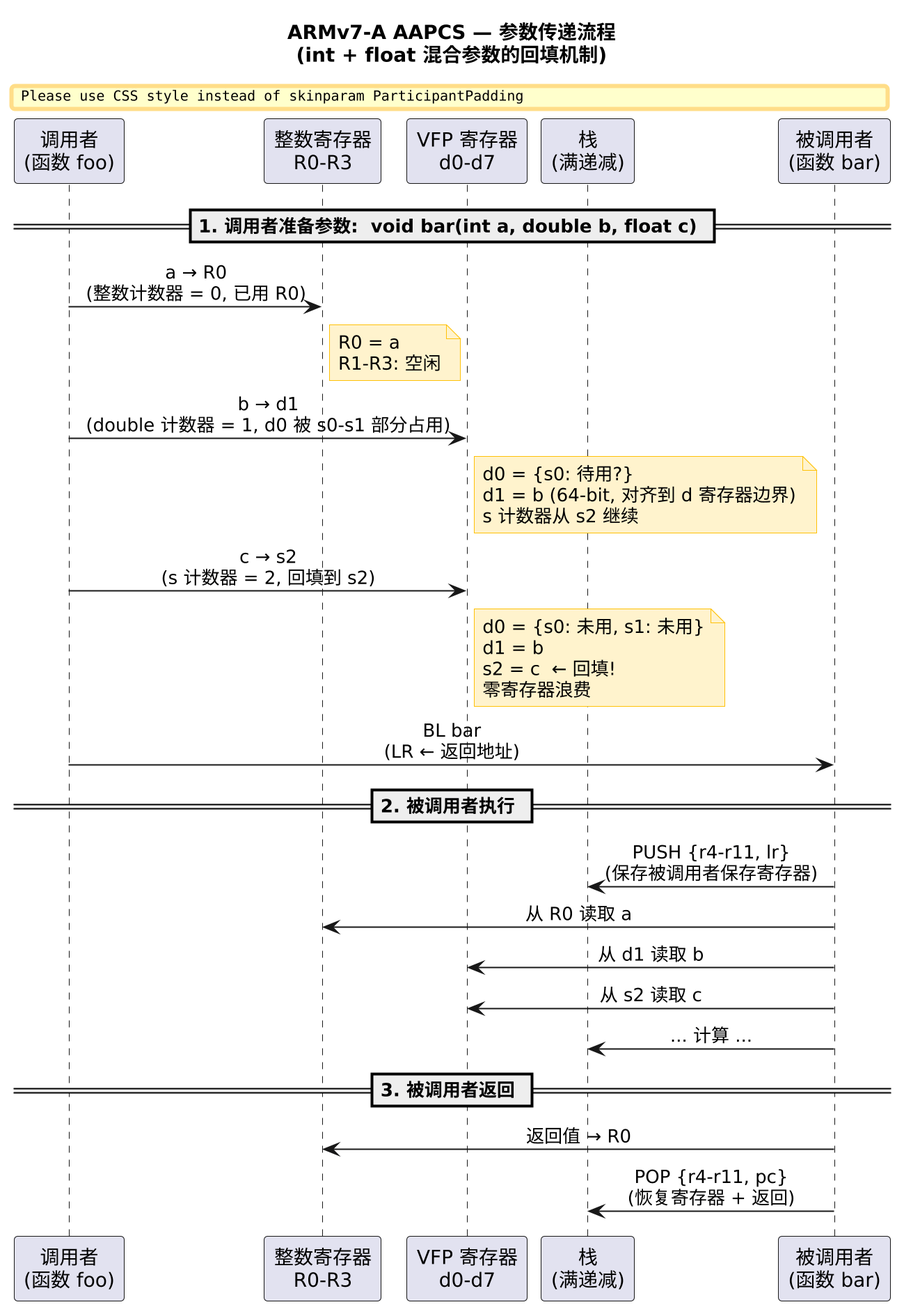
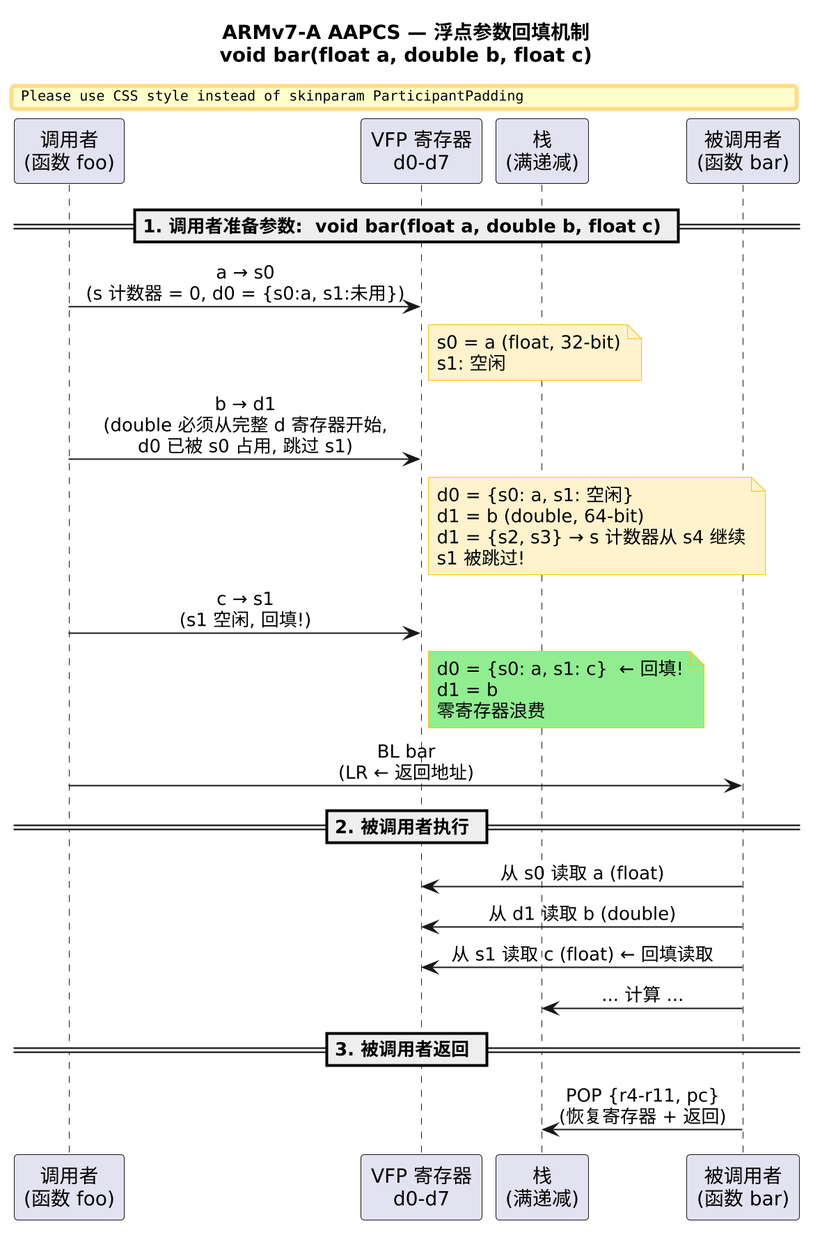
Site updated: 2026-07-25 17:15:24

Changed region(s): [[0.0, 0.0, 0.9863, 0.9921], [0.1849, 0.403, 0.4315, 0.5271], [0.0, 0.9301, 0.1541, 0.9921]]

diff --git a/2026/07/25/ARM-AACPS/index.html b/2026/07/25/ARM-AACPS/index.html
@@ -30,7 +30,7 @@
 <meta property="og:image" content="http://yoursite.com/2026/07/25/ARM-AACPS/2.png">
 <meta property="og:image" content="http://yoursite.com/2026/07/25/ARM-AACPS/1.png">
 <meta property="article:published_time" content="2026-07-25T02:19:33.000Z">
-<meta property="article:modified_time" content="2026-07-25T02:26:01.828Z">
+<meta property="article:modified_time" content="2026-07-25T09:14:53.580Z">
 <meta property="article:author" content="Vonku">
 <meta property="article:tag" content="ARM">
 <meta property="article:tag" content="ARMv7-a">
@@ -136,7 +136,7 @@
       <div class="sidebar-panel-container">
         <!--noindex-->
         <div class="post-toc-wrap sidebar-panel">
-            <div class="post-toc animated"><ol class="nav"><li class="nav-item nav-level-2"><a class="nav-link" href="#1-ABI-%E4%B8%8E-AAPCS%EF%BC%9A%E8%B7%A8%E6%A8%A1%E5%9D%97%E4%BA%92%E6%93%8D%E4%BD%9C%E7%9A%84%E5%9F%BA%E7%A1%80"><span class="nav-text">1. ABI 与 AAPCS：跨模块互操作的基础</span></a></li><li class="nav-item nav-level-2"><a class="nav-link" href="#2-%E6%95%B4%E6%95%B0%E5%AF%84%E5%AD%98%E5%99%A8%E8%A7%92%E8%89%B2%E4%B8%8E%E5%88%86%E7%BB%84"><span class="nav-text">2. 整数寄存器角色与分组</span></a><ol class="nav-child"><li class="nav-item nav-level-3"><a class="nav-link" href="#2-1-%E5%AF%84%E5%AD%98%E5%99%A8%E8%81%8C%E8%B4%A3%E8%A1%A8"><span class="nav-text">2.1 寄存器职责表</span></a></li><li class="nav-item nav-level-3"><a class="nav-link" href="#2-2-R12-IP-%E7%9A%84%E6%B7%B1%E5%B1%82%E5%90%AB%E4%B9%89%EF%BC%9A%E4%B8%BA%E4%BB%80%E4%B9%88%E9%93%BE%E6%8E%A5%E5%99%A8%E9%9C%80%E8%A6%81%E4%B8%80%E4%B8%AA%E6%9A%82%E5%AD%98%E5%AF%84%E5%AD%98%E5%99%A8%EF%BC%9F"><span class="nav-text">2.2 R12 (IP) 的深层含义：为什么链接器需要一个暂存寄存器？</span></a></li><li class="nav-item nav-level-3"><a class="nav-link" href="#2-3-R9-%E7%9A%84%E7%89%B9%E6%AE%8A%E5%9C%B0%E4%BD%8D"><span class="nav-text">2.3 R9 的特殊地位</span></a></li></ol></li><li class="nav-item nav-level-2"><a class="nav-link" href="#3-%E5%87%BD%E6%95%B0%E8%B0%83%E7%94%A8%E7%9A%84%E5%8F%82%E6%95%B0%E4%BC%A0%E9%80%92"><span class="nav-text">3. 函数调用的参数传递</span></a><ol class="nav-child"><li class="nav-item nav-level-3"><a class="nav-link" href="#3-1-%E5%9F%BA%E6%9C%AC%E8%A7%84%E5%88%99"><span class="nav-text">3.1 基本规则</span></a></li><li class="nav-item nav-level-3"><a class="nav-link" href="#3-2-C-%E7%9A%84-this-%E6%8C%87%E9%92%88%E6%83%A9%E7%BD%9A"><span class="nav-text">3.2 C++ 的 this 指针惩罚</span></a></li><li class="nav-item nav-level-3"><a class="nav-link" href="#3-3-64-%E4%BD%8D%E5%8F%82%E6%95%B0%E7%9A%84%E5%AF%B9%E9%BD%90%E7%BA%A6%E6%9D%9F"><span class="nav-text">3.3 64 位参数的对齐约束</span></a><ol class="nav-child"><li class="nav-item nav-level-4"><a class="nav-link" href="#%E5%AE%9E%E4%BE%8B%EF%BC%9A%E5%8F%82%E6%95%B0%E9%A1%BA%E5%BA%8F%E9%94%99%E8%AF%AF%E7%9A%84%E4%BB%A3%E4%BB%B7"><span class="nav-text">实例：参数顺序错误的代价</span></a></li></ol></li><li class="nav-item nav-level-3"><a class="nav-link" href="#3-4-%E8%B0%83%E7%94%A8%E8%80%85%E4%B8%8E%E8%A2%AB%E8%B0%83%E7%94%A8%E8%80%85%E7%9A%84%E4%BB%A3%E7%A0%81%E6%A8%A1%E6%9D%BF"><span class="nav-text">3.4 调用者与被调用者的代码模板</span></a></li></ol></li><li class="nav-item nav-level-2"><a class="nav-link" href="#4-VFP-%E4%B8%8E-NEON-%E5%AF%84%E5%AD%98%E5%99%A8%E7%BA%A6%E5%AE%9A"><span class="nav-text">4. VFP 与 NEON 寄存器约定</span></a><ol class="nav-child"><li class="nav-item nav-level-3"><a class="nav-link" href="#4-1-VFPv3-%E5%AF%84%E5%AD%98%E5%99%A8%E5%B8%83%E5%B1%80"><span class="nav-text">4.1 VFPv3 寄存器布局</span></a></li><li class="nav-item nav-level-3"><a class="nav-link" href="#4-2-%E8%BD%AF%E4%BB%B6%E6%B5%AE%E7%82%B9%E9%93%BE%E8%B7%AF-vs-%E7%A1%AC%E4%BB%B6%E6%B5%AE%E7%82%B9%E9%93%BE%E8%B7%AF"><span class="nav-text">4.2 软件浮点链路 vs 硬件浮点链路</span></a></li><li class="nav-item nav-level-3"><a class="nav-link" href="#4-3-%E6%B5%AE%E7%82%B9%E5%AF%84%E5%AD%98%E5%99%A8%E7%9A%84-back-fill-%E6%9C%BA%E5%88%B6"><span class="nav-text">4.3 浮点寄存器的 back-fill 机制</span></a></li><li class="nav-item nav-level-3"><a class="nav-link" href="#4-4-%E6%A0%88%E6%BA%A2%E5%87%BA%E7%9A%84%E4%B8%8D%E5%8F%AF%E9%80%86%E7%BA%A6%E6%9D%9F"><span class="nav-text">4.4 栈溢出的不可逆约束</span></a></li><li class="nav-item nav-level-3"><a class="nav-link" href="#4-5-%E5%8F%98%E5%8F%82%E5%87%BD%E6%95%B0%E7%9A%84%E7%89%B9%E6%AE%8A%E5%A4%84%E7%90%86"><span class="nav-text">4.5 变参函数的特殊处理</span></a></li></ol></li><li class="nav-item nav-level-2"><a class="nav-link" href="#5-%E6%A0%88%E3%80%81%E5%A0%86%E4%B8%8E%E8%BF%94%E5%9B%9E%E5%80%BC"><span class="nav-text">5. 栈、堆与返回值</span></a><ol class="nav-child"><li class="nav-item nav-level-3"><a class="nav-link" href="#5-1-%E6%A0%88%E5%AE%9E%E7%8E%B0"><span class="nav-text">5.1 栈实现</span></a></li><li class="nav-item nav-level-3"><a class="nav-link" href="#5-2-%E8%BF%94%E5%9B%9E%E5%80%BC%E7%BA%A6%E5%AE%9A"><span class="nav-text">5.2 返回值约定</span></a></li></ol></li><li class="nav-item nav-level-2"><a class="nav-link" href="#6-C-%E4%B8%8E%E6%B1%87%E7%BC%96%E6%B7%B7%E7%BC%96%E5%AE%9E%E8%B7%B5"><span class="nav-text">6. C 与汇编混编实践</span></a><ol class="nav-child"><li class="nav-item nav-level-3"><a class="nav-link" href="#6-1-GCC-%E5%9F%BA%E6%9C%AC%E5%86%85%E8%81%94%E6%B1%87%E7%BC%96"><span class="nav-text">6.1 GCC 基本内联汇编</span></a></li><li class="nav-item nav-level-3"><a class="nav-link" href="#6-2-%E6%89%A9%E5%B1%95%E5%86%85%E8%81%94%E6%B1%87%E7%BC%96%E8%AF%AD%E6%B3%95"><span class="nav-text">6.2 扩展内联汇编语法</span></a></li><li class="nav-item nav-level-3"><a class="nav-link" href="#6-3-%E7%BA%A6%E6%9D%9F%E5%AD%97%E7%AC%A6"><span class="nav-text">6.3 约束字符</span></a></li><li class="nav-item nav-level-3"><a class="nav-link" href="#6-4-Clobber-%E5%88%97%E8%A1%A8"><span class="nav-text">6.4 Clobber 列表</span></a></li><li class="nav-item nav-level-3"><a class="nav-link" href="#6-5-%E6%9D%A5%E8%87%AA-Linux-%E5%86%85%E6%A0%B8%E7%9A%84%E5%AE%9E%E4%BE%8B"><span class="nav-text">6.5 来自 Linux 内核的实例</span></a></li></ol></li><li class="nav-item nav-level-2"><a class="nav-link" href="#7-%E5%85%B3%E9%94%AE%E8%A6%81%E7%82%B9"><span class="nav-text">7. 关键要点</span></a></li></ol></div>
+            <div class="post-toc animated"><ol class="nav"><li class="nav-item nav-level-2"><a class="nav-link" href="#1-ABI-%E4%B8%8E-AAPCS%EF%BC%9A%E8%B7%A8%E6%A8%A1%E5%9D%97%E4%BA%92%E6%93%8D%E4%BD%9C%E7%9A%84%E5%9F%BA%E7%A1%80"><span class="nav-text">1. ABI 与 AAPCS：跨模块互操作的基础</span></a></li><li class="nav-item nav-level-2"><a class="nav-link" href="#2-%E6%95%B4%E6%95%B0%E5%AF%84%E5%AD%98%E5%99%A8%E8%A7%92%E8%89%B2%E4%B8%8E%E5%88%86%E7%BB%84"><span class="nav-text">2. 整数寄存器角色与分组</span></a><ol class="nav-child"><li class="nav-item nav-level-3"><a class="nav-link" href="#2-1-%E5%AF%84%E5%AD%98%E5%99%A8%E8%81%8C%E8%B4%A3%E8%A1%A8"><span class="nav-text">2.1 寄存器职责表</span></a></li><li class="nav-item nav-level-3"><a class="nav-link" href="#2-2-R12-IP-%E7%9A%84%E6%B7%B1%E5%B1%82%E5%90%AB%E4%B9%89%EF%BC%9A%E4%B8%BA%E4%BB%80%E4%B9%88%E9%93%BE%E6%8E%A5%E5%99%A8%E9%9C%80%E8%A6%81%E4%B8%80%E4%B8%AA%E6%9A%82%E5%AD%98%E5%AF%84%E5%AD%98%E5%99%A8%EF%BC%9F"><span class="nav-text">2.2 R12 (IP) 的深层含义：为什么链接器需要一个暂存寄存器？</span></a></li><li class="nav-item nav-level-3"><a class="nav-link" href="#2-3-R9-%E7%9A%84%E7%89%B9%E6%AE%8A%E5%9C%B0%E4%BD%8D"><span class="nav-text">2.3 R9 的特殊地位</span></a></li></ol></li><li class="nav-item nav-level-2"><a class="nav-link" href="#3-%E5%87%BD%E6%95%B0%E8%B0%83%E7%94%A8%E7%9A%84%E5%8F%82%E6%95%B0%E4%BC%A0%E9%80%92"><span class="nav-text">3. 函数调用的参数传递</span></a><ol class="nav-child"><li class="nav-item nav-level-3"><a class="nav-link" href="#3-1-%E5%9F%BA%E6%9C%AC%E8%A7%84%E5%88%99"><span class="nav-text">3.1 基本规则</span></a></li><li class="nav-item nav-level-3"><a class="nav-link" href="#3-2-C-%E7%9A%84-this-%E6%8C%87%E9%92%88%E6%83%A9%E7%BD%9A"><span class="nav-text">3.2 C++ 的 this 指针惩罚</span></a></li><li class="nav-item nav-level-3"><a class="nav-link" href="#3-3-64-%E4%BD%8D%E5%8F%82%E6%95%B0%E7%9A%84%E5%AF%84%E5%AD%98%E5%99%A8%E5%AF%B9%E9%BD%90%E8%A7%84%E5%88%99"><span class="nav-text">3.3 64 位参数的寄存器对齐规则</span></a><ol class="nav-child"><li class="nav-item nav-level-4"><a class="nav-link" href="#%E5%AE%9E%E4%BE%8B%EF%BC%9A%E5%8F%82%E6%95%B0%E9%A1%BA%E5%BA%8F%E9%94%99%E8%AF%AF%E7%9A%84%E4%BB%A3%E4%BB%B7"><span class="nav-text">实例：参数顺序错误的代价</span></a></li></ol></li><li class="nav-item nav-level-3"><a class="nav-link" href="#3-4-%E8%B0%83%E7%94%A8%E8%80%85%E4%B8%8E%E8%A2%AB%E8%B0%83%E7%94%A8%E8%80%85%E7%9A%84%E4%BB%A3%E7%A0%81%E6%A8%A1%E6%9D%BF"><span class="nav-text">3.4 调用者与被调用者的代码模板</span></a></li></ol></li><li class="nav-item nav-level-2"><a class="nav-link" href="#4-VFP-%E4%B8%8E-NEON-%E5%AF%84%E5%AD%98%E5%99%A8%E7%BA%A6%E5%AE%9A"><span class="nav-text">4. VFP 与 NEON 寄存器约定</span></a><ol class="nav-child"><li class="nav-item nav-level-3"><a class="nav-link" href="#4-1-VFPv3-%E5%AF%84%E5%AD%98%E5%99%A8%E5%B8%83%E5%B1%80"><span class="nav-text">4.1 VFPv3 寄存器布局</span></a></li><li class="nav-item nav-level-3"><a class="nav-link" href="#4-2-%E8%BD%AF%E4%BB%B6%E6%B5%AE%E7%82%B9%E9%93%BE%E8%B7%AF-vs-%E7%A1%AC%E4%BB%B6%E6%B5%AE%E7%82%B9%E9%93%BE%E8%B7%AF"><span class="nav-text">4.2 软件浮点链路 vs 硬件浮点链路</span></a></li><li class="nav-item nav-level-3"><a class="nav-link" href="#4-3-%E6%B5%AE%E7%82%B9%E5%AF%84%E5%AD%98%E5%99%A8%E7%9A%84-back-fill-%E6%9C%BA%E5%88%B6"><span class="nav-text">4.3 浮点寄存器的 back-fill 机制</span></a></li><li class="nav-item nav-level-3"><a class="nav-link" href="#4-4-%E6%A0%88%E6%BA%A2%E5%87%BA%E7%9A%84%E4%B8%8D%E5%8F%AF%E9%80%86%E7%BA%A6%E6%9D%9F"><span class="nav-text">4.4 栈溢出的不可逆约束</span></a></li><li class="nav-item nav-level-3"><a class="nav-link" href="#4-5-%E5%8F%98%E5%8F%82%E5%87%BD%E6%95%B0%E7%9A%84%E7%89%B9%E6%AE%8A%E5%A4%84%E7%90%86"><span class="nav-text">4.5 变参函数的特殊处理</span></a></li></ol></li><li class="nav-item nav-level-2"><a class="nav-link" href="#5-%E6%A0%88%E3%80%81%E5%A0%86%E4%B8%8E%E8%BF%94%E5%9B%9E%E5%80%BC"><span class="nav-text">5. 栈、堆与返回值</span></a><ol class="nav-child"><li class="nav-item nav-level-3"><a class="nav-link" href="#5-1-%E6%A0%88%E5%AE%9E%E7%8E%B0"><span class="nav-text">5.1 栈实现</span></a></li><li class="nav-item nav-level-3"><a class="nav-link" href="#5-2-%E8%BF%94%E5%9B%9E%E5%80%BC%E7%BA%A6%E5%AE%9A"><span class="nav-text">5.2 返回值约定</span></a></li></ol></li><li class="nav-item nav-level-2"><a class="nav-link" href="#6-C-%E4%B8%8E%E6%B1%87%E7%BC%96%E6%B7%B7%E7%BC%96%E5%AE%9E%E8%B7%B5"><span class="nav-text">6. C 与汇编混编实践</span></a><ol class="nav-child"><li class="nav-item nav-level-3"><a class="nav-link" href="#6-1-GCC-%E5%9F%BA%E6%9C%AC%E5%86%85%E8%81%94%E6%B1%87%E7%BC%96"><span class="nav-text">6.1 GCC 基本内联汇编</span></a></li><li class="nav-item nav-level-3"><a class="nav-link" href="#6-2-%E6%89%A9%E5%B1%95%E5%86%85%E8%81%94%E6%B1%87%E7%BC%96%E8%AF%AD%E6%B3%95"><span class="nav-text">6.2 扩展内联汇编语法</span></a></li><li class="nav-item nav-level-3"><a class="nav-link" href="#6-3-%E7%BA%A6%E6%9D%9F%E5%AD%97%E7%AC%A6"><span class="nav-text">6.3 约束字符</span></a></li><li class="nav-item nav-level-3"><a class="nav-link" href="#6-4-Clobber-%E5%88%97%E8%A1%A8"><span class="nav-text">6.4 Clobber 列表</span></a></li><li class="nav-item nav-level-3"><a class="nav-link" href="#6-5-%E6%9D%A5%E8%87%AA-Linux-%E5%86%85%E6%A0%B8%E7%9A%84%E5%AE%9E%E4%BE%8B"><span class="nav-text">6.5 来自 Linux 内核的实例</span></a></li></ol></li><li class="nav-item nav-level-2"><a class="nav-link" href="#7-%E5%85%B3%E9%94%AE%E8%A6%81%E7%82%B9"><span class="nav-text">7. 关键要点</span></a></li></ol></div>
         </div>
         <!--/noindex-->
 
@@ -293,20 +293,21 @@
 <tbody><tr>
 <td>Static Base</td>
 <td>SB</td>
-<td>指向位置无关数据段（如 PIC&#x2F;PID 代码中的 GOT）</td>
+<td>指向全局数据区基址，便于高效访问全局&#x2F;静态变量（部分平台使用）</td>
 </tr>
 <tr>
 <td>Thread Register</td>
 <td>TR</td>
-<td>指向线程局部存储 (TLS)</td>
+<td>指向当前线程的数据结构（TCB&#x2F;TLS），便于快速访问线程局部数据</td>
 </tr>
 <tr>
 <td>Variable v6</td>
 <td>v6</td>
-<td>无特殊需求时作为额外的被调用者保存寄存器</td>
+<td>无特殊用途时，作为普通的被调用者保存寄存器（callee-saved）</td>
 </tr>
 </tbody></table>
-<p>在不需要 SB 或 TR 的代码中，R9 等价于额外的 v6，遵守与被调用者保存寄存器相同的规则。</p>
+<p><strong>R9 是 AAPCS 中唯一由平台 ABI 决定具体用途的通用寄存器。</strong> 某些平台将其作为 <strong>SB（Static Base）</strong> 保存全局数据区基址，或作为 <strong>TR（Thread Register）</strong> 保存当前线程的线程控制块（TCB）或线程局部存储（TLS）指针；若平台没有这些需求，则 <strong>R9</strong> 作为普通的 <strong>v6</strong> 使用，遵守与其他被调用者保存寄存器（callee-saved）相同的规则。</p>
+<p>Linux ARM EABI 上基本把<code>r9</code>当做<code>v6</code>来使用，也就是普通的 callee-saved 寄存器。线程指针通常使用 CP15（后来又演进为专门的线程指针机制），而不是 <code>r9</code>。</p>
 <hr>
 <h2 id="3-函数调用的参数传递"><a href="#3-函数调用的参数传递" class="headerlink" title="3. 函数调用的参数传递"></a>3. 函数调用的参数传递</h2><h3 id="3-1-基本规则"><a href="#3-1-基本规则" class="headerlink" title="3.1 基本规则"></a>3.1 基本规则</h3><p>AAPCS 参数传递策略的核心思想是：<strong>优先使用寄存器，溢出才走栈</strong>。</p>
 <ul>
@@ -316,18 +317,18 @@
 <li>大于一个字（32-bit）的参数拆分到多个寄存器中</li>
 </ul>
 <p>这意味着一个 <code>void f(int a, char b, short c, int d)</code> 调用中，a→R0, b→R1, c→R2, d→R3——虽然 b 和 c 只有 8 位和 16 位，但仍各自占据一个完整的 32 位寄存器。</p>
-<h3 id="3-2-C-的-this-指针惩罚"><a href="#3-2-C-的-this-指针惩罚" class="headerlink" title="3.2 C++ 的 this 指针惩罚"></a>3.2 C++ 的 this 指针惩罚</h3><p>C++ 非静态成员函数隐含的 <code>this</code> 指针占用 R0，因此只剩 <strong>R1–R3 三个寄存器</strong>用于显式参数。当你定义一个 C++ 成员函数有 4 个参数时，第 4 个参数就已经溢出到栈上了。</p>
+<h3 id="3-2-C-的-this-指针惩罚"><a href="#3-2-C-的-this-指针惩罚" class="headerlink" title="3.2 C++ 的 this 指针惩罚"></a>3.2 C++ 的 this 指针惩罚</h3><p>C++ <strong>非静态成员函数</strong>会隐式传递一个 <code>this</code> 指针，并按照 AAPCS 放入 <strong>R0</strong>。因此，可用于传递<strong>显式参数</strong>的寄存器只剩 <strong>R1–R3</strong>。当成员函数有 <strong>4 个显式参数</strong>时，第 <strong>4</strong> 个参数（也是整个调用序列中的第 <strong>5</strong> 个参数）将按照 AAPCS 的规则通过栈传递。</p>
 <p>这意味着在性能敏感的 C++ 代码中，参数数量应该控制在 3 个以内——比 C 函数少一个。</p>
-<h3 id="3-3-64-位参数的对齐约束"><a href="#3-3-64-位参数的对齐约束" class="headerlink" title="3.3 64 位参数的对齐约束"></a>3.3 64 位参数的对齐约束</h3><p>这是 AAPCS 中最容易踩坑的规则。64 位类型的参数（如 <code>long long</code>、<code>double</code>）必须满足两个约束：</p>
+<h3 id="3-3-64-位参数的寄存器对齐规则"><a href="#3-3-64-位参数的寄存器对齐规则" class="headerlink" title="3.3 64 位参数的寄存器对齐规则"></a>3.3 64 位参数的寄存器对齐规则</h3><p>这是 AAPCS 中最容易踩坑的规则。64 位类型的参数（如 <code>long long</code>、<code>double</code>）必须满足两个约束：</p>
 <ol>
-<li>在内存中必须 8 字节对齐（与 ARM <code>LDRD</code>&#x2F;<code>STRD</code> 双字加载指令的限制一致）</li>
-<li>在寄存器传递时必须使用<strong>偶数+奇数</strong>寄存器对（如 R0+R1 或 R2+R3，不能是 R1+R2）</li>
+<li>在内存中按 <strong>8 字节边界对齐</strong>，这是 AAPCS 对 64 位数据类型的 ABI 要求，也便于编译器生成高效的双字访问指令。</li>
+<li>在寄存器中传递时，必须从<strong>偶数编号寄存器</strong>开始连续占用两个寄存器，即只能使用 <strong>R0+R1</strong> 或 <strong>R2+R3</strong>，不能使用 <strong>R1+R2</strong>。</li>
 </ol>
 <h4 id="实例：参数顺序错误的代价"><a href="#实例：参数顺序错误的代价" class="headerlink" title="实例：参数顺序错误的代价"></a>实例：参数顺序错误的代价</h4><p>以原文 Figure 16-1 为例。假设函数签名为：</p>
 <figure class="highlight c"><table><tr><td class="gutter"><pre><span class="line">1</span><br></pre></td><td class="code"><pre><span class="line"><span class="type">void</span> <span class="title function_">func1</span><span class="params">(<span class="type">int</span> a, <span class="type">double</span> b, <span class="type">int</span> c)</span>;</span><br></pre></td></tr></table></figure>
 
 <p>参数分配过程：</p>
-<figure class="highlight plaintext"><table><tr><td class="gutter"><pre><span class="line">1</span><br><span class="line">2</span><br><span class="line">3</span><br></pre></td><td class="code"><pre><span class="line">a (int, 32-bit)  → R0                       [4 bytes used]</span><br><span class="line">b (double, 64-bit)→ R2 + R3   [8 bytes, must start at even reg]</span><br><span class="line">c (int, 32-bit)  → overflow → stack [R1 wasted!]</span><br></pre></td></tr></table></figure>
+<figure class="highlight plaintext"><table><tr><td class="gutter"><pre><span class="line">1</span><br><span class="line">2</span><br><span class="line">3</span><br><span class="line">4</span><br></pre></td><td class="code"><pre><span class="line">a (int, 32-bit)    → R0  [4 bytes used]</span><br><span class="line">                     R1  ← 跳过（因为 double 必须从偶数寄存器开始）</span><br><span class="line">b (double, 64-bit) → R2 + R3   [8 bytes, must start at even reg]</span><br><span class="line">c (int, 32-bit)    → overflow → stack [R1 wasted!]</span><br></pre></td></tr></table></figure>
 
 <p>R1 因对齐约束被跳过，c 被迫溢出到栈。每次调用都需要额外的栈操作指令。</p>
 <p>如果将参数重新排序：</p>
@@ -347,7 +348,16 @@
 <p>被调用者侧：</p>
 <figure class="highlight plaintext"><table><tr><td class="gutter"><pre><span class="line">1</span><br><span class="line">2</span><br><span class="line">3</span><br><span class="line">4</span><br><span class="line">5</span><br><span class="line">6</span><br></pre></td><td class="code"><pre><span class="line">func:</span><br><span class="line">@ 必须保存 r4-r11, lr（如果使用）</span><br><span class="line">@ 可以破坏 r0-r3, r12</span><br><span class="line">PUSH &#123;r4-r11, lr&#125;       @ 保存被调用者寄存器 + 返回地址</span><br><span class="line">...</span><br><span class="line">POP  &#123;r4-r11, pc&#125;       @ 恢复寄存器，pc←lr，实现返回</span><br></pre></td></tr></table></figure>
 
-<p>这里有几个细节。AAPCS 要求栈在公共接口处保持 8 字节对齐（双字对齐），因此被调函数的 PUSH&#x2F;POP 通常使用偶数个寄存器以维持对齐。最常见的情况是 <code>&#123;r4, lr&#125;</code> 或 <code>&#123;r4-r8, lr&#125;</code>（lr 占一个槽位，凑成偶数）。叶子函数（不调用其他函数的函数）不需要保存 LR，但如果只需保存单个被调用者寄存器（比如仅 r4），单寄存器 PUSH 会破坏 8 字节对齐——编译器此时会通过 <code>SUB sp, sp, #8</code> 手动调整栈指针、或在栈上多压一个占位寄存器来解决。</p>
+<p>需要注意的是，实际编译器通常<strong>只会保存函数中真正使用到的被调用者保存寄存器</strong>，而不会固定保存 <code>r4-r11</code>。例如，一个函数若只使用了 <code>r4</code>，生成的序言和尾声通常为：</p>
+<figure class="highlight plaintext"><table><tr><td class="gutter"><pre><span class="line">1</span><br><span class="line">2</span><br><span class="line">3</span><br></pre></td><td class="code"><pre><span class="line">PUSH &#123;r4, lr&#125;</span><br><span class="line">...</span><br><span class="line">POP  &#123;r4, pc&#125;</span><br></pre></td></tr></table></figure>
+
+<p>AAPCS 还要求<strong>公共接口（public interface）</strong>处的栈保持 <strong>8 字节对齐</strong>。因此，编译器通常会让函数入口、出口以及每次执行 <code>BL</code> 调用其他函数之前，都满足这一要求。实践中最常见的做法是一次保存偶数个寄存器（如 <code>&#123;r4, lr&#125;</code> 或 <code>&#123;r4-r8, lr&#125;</code>），这样 <code>PUSH</code>&#x2F;<code>POP</code> 后栈仍保持 8 字节对齐。</p>
+<p>如果保存的寄存器数量为<strong>奇数个</strong>，编译器通常会采用以下策略保持栈对齐：</p>
+<ol>
+<li><strong>调整栈指针（最常见）</strong>。例如在保存 <code>&#123;r4, r5, lr&#125;</code> 后，再通过 <code>SUB sp, sp, #4</code> 额外预留 4 字节空间，使栈重新恢复到 8 字节对齐；函数返回前再执行 <code>ADD sp, sp, #4</code> 恢复。</li>
+<li><strong>额外保存一个占位寄存器</strong>。少数情况下，编译器也可能多保存一个实际上不会使用的寄存器（如 <code>r6</code>），将 <code>&#123;r4, r5, lr&#125;</code> 扩展为 <code>&#123;r4, r5, r6, lr&#125;</code>，从而凑成偶数个寄存器。不过现代 GCC、Clang 更倾向于采用第一种方式。</li>
+</ol>
+<p>对于<strong>叶子函数（Leaf Function）</strong>——即不会再调用其他函数的函数——由于不存在新的函数调用，它们在函数执行期间不一定始终保持栈的 8 字节对齐。只有当函数需要继续调用其他函数时，编译器才会确保在执行 <code>BL</code> 前恢复到 8 字节对齐。</p>
 <hr>
 <h2 id="4-VFP-与-NEON-寄存器约定"><a href="#4-VFP-与-NEON-寄存器约定" class="headerlink" title="4. VFP 与 NEON 寄存器约定"></a>4. VFP 与 NEON 寄存器约定</h2><p>ARMv7-A 的浮点&#x2F;向量寄存器和整数寄存器是两套独立的寄存器文件。当硬件浮点单元 (VFP) 存在时，AAPCS 定义了两套参数传递策略。</p>
 <h3 id="4-1-VFPv3-寄存器布局"><a href="#4-1-VFPv3-寄存器布局" class="headerlink" title="4.1 VFPv3 寄存器布局"></a>4.1 VFPv3 寄存器布局</h3><p>VFPv3 提供：</p>
@@ -424,7 +434,7 @@
 
 <p>这说明即使引入了浮点寄存器，整数参数的对齐约束仍然独立生效。</p>
 <h3 id="4-3-浮点寄存器的-back-fill-机制"><a href="#4-3-浮点寄存器的-back-fill-机制" class="headerlink" title="4.3 浮点寄存器的 back-fill 机制"></a>4.3 浮点寄存器的 back-fill 机制</h3><p>浮点参数分配有一个整数参数不具备的特性：<strong>back-fill（回填）</strong>。当一个大尺寸浮点参数跳过了小寄存器的空隙后，后续小参数可以回填到那个空隙中。</p>
-<p>下面的时序图展示了 <code>int</code> + <code>double</code> + <code>float</code> 参数混合传递时 back-fill 的完整过程：</p>
+<p>下面的时序图展示了 <code>float</code> + <code>double</code> + <code>float</code> 参数混合传递时 back-fill 的完整过程——注意 <code>double b</code> 跳过 s1 后，<code>float c</code> 回填到被跳过的 s1：</p>
 <p><img src="/2026/07/25/ARM-AACPS/2.png" alt="2"></p>
 <figure class="highlight c"><table><tr><td class="gutter"><pre><span class="line">1</span><br><span class="line">2</span><br><span class="line">3</span><br><span class="line">4</span><br><span class="line">5</span><br><span class="line">6</span><br><span class="line">7</span><br><span class="line">8</span><br></pre></td><td class="code"><pre><span class="line"><span class="type">void</span> <span class="title function_">f</span><span class="params">(<span class="type">float</span> a, <span class="type">double</span> b, <span class="type">float</span> c)</span></span><br><span class="line"><span class="comment">// 浮点分配:</span></span><br><span class="line"><span class="comment">//   a (float, 32-bit) → s0</span></span><br><span class="line"><span class="comment">//   b (double, 64-bit) → d1 (需要完整的 d 寄存器，不能从 s1 开始)</span></span><br><span class="line"><span class="comment">//                         s1 现在是空闲的</span></span><br><span class="line"><span class="comment">//   c (float, 32-bit) → s1 (back-fill 到空闲的 s1)</span></span><br><span class="line"><span class="comment">//</span></span><br><span class="line"><span class="comment">// 最终: d0 = &#123;s0:a, s1:c&#125;, d1 = b</span></span><br></pre></td></tr></table></figure>
 
@@ -439,11 +449,16 @@
 
 <p>尽管 <code>d6</code> 中 s13 仍然空闲，但 <code>j</code> 不能回填到 s13——因为 <code>i</code> 已经溢出到栈了。规则是：”一旦 FP 参数触及栈，就不能回填到寄存器”。</p>
 <p><img src="/2026/07/25/ARM-AACPS/1.png" alt="1"></p>
-<h3 id="4-5-变参函数的特殊处理"><a href="#4-5-变参函数的特殊处理" class="headerlink" title="4.5 变参函数的特殊处理"></a>4.5 变参函数的特殊处理</h3><p>带有可变参数（如 <code>printf</code>）的函数不使用 VFP 寄存器传递浮点参数。所有参数改为通过整数寄存器（R0–R3）和栈传递，单精度浮点被提升为双精度。这是因为变参函数的调用方和实现方无法在编译期约定哪些参数是浮点类型。</p>
+<h3 id="4-5-变参函数的特殊处理"><a href="#4-5-变参函数的特殊处理" class="headerlink" title="4.5 变参函数的特殊处理"></a>4.5 变参函数的特殊处理</h3><p>带有可变参数（如 <code>printf</code>）的函数采用特殊的参数传递规则：<strong>所有可变参数都通过整数寄存器（R0–R3）和栈传递，而不会使用 VFP 寄存器</strong>。此外，根据 C 语言的<strong>默认参数提升（Default Argument Promotions）</strong>，<code>float</code> 会自动提升为 <code>double</code>，<code>char</code>、<code>short</code> 会提升为 <code>int</code>。这样，<code>va_arg</code> 就可以按照统一的规则依次读取参数，而无需同时处理整数寄存器和 VFP 寄存器中的数据。</p>
 <hr>
 <h2 id="5-栈、堆与返回值"><a href="#5-栈、堆与返回值" class="headerlink" title="5. 栈、堆与返回值"></a>5. 栈、堆与返回值</h2><h3 id="5-1-栈实现"><a href="#5-1-栈实现" class="headerlink" title="5.1 栈实现"></a>5.1 栈实现</h3><p>AAPCS 规定栈为 <strong>full-descending（满递减）</strong> 类型：</p>
-<figure class="highlight plaintext"><table><tr><td class="gutter"><pre><span class="line">1</span><br><span class="line">2</span><br></pre></td><td class="code"><pre><span class="line">Full   — SP 指向栈顶最后一个被使用的元素（而非下一个空闲位置）</span><br><span class="line">Descending — 栈向低地址方向增长</span><br></pre></td></tr></table></figure>
+<figure class="highlight plaintext"><table><tr><td class="gutter"><pre><span class="line">1</span><br><span class="line">2</span><br><span class="line">3</span><br><span class="line">4</span><br><span class="line">5</span><br><span class="line">6</span><br><span class="line">7</span><br><span class="line">8</span><br><span class="line">9</span><br><span class="line">10</span><br><span class="line">11</span><br><span class="line">12</span><br><span class="line">13</span><br><span class="line">14</span><br><span class="line">15</span><br></pre></td><td class="code"><pre><span class="line">       HIGH (0xBEEFFFFC)</span><br><span class="line">      ┌───────────────┐</span><br><span class="line">      │  Caller frame │  ← 调用者的栈帧</span><br><span class="line">      ├───────────────┤</span><br><span class="line">      │  arg 5        │  ← 第 5 个及之后的参数溢出到栈 (调用者压入)</span><br><span class="line">      │  arg 6        │</span><br><span class="line">      ├───────────────┤</span><br><span class="line">      │  LR (R14)     │  ← 被调函数保存的返回地址</span><br><span class="line">      │  R11 (v8)     │</span><br><span class="line">      │  R10 (v7)     │</span><br><span class="line">SP →  │  R4  (v1)     │  ← SP 指向最后一个被使用的元素 (Full)</span><br><span class="line">      ├───────────────┤  ← 栈向低地址方向增长 (Descending)</span><br><span class="line">      │  unused       │  ← 下一个 PUSH 将写入这里 (SP 先减 4)</span><br><span class="line">      │               │</span><br><span class="line">       LOW  (0xBEEFF000)</span><br></pre></td></tr></table></figure>
 
+<p>关键规则：</p>
+<ul>
+<li><strong>Full</strong>：SP 指向栈顶最后一个<strong>已使用</strong>的元素（而非下一个空闲位置）。<code>PUSH &#123;r4&#125;</code> 等价于 <code>SP := SP - 4; [SP] := R4</code></li>
+<li><strong>Descending</strong>：栈向低地址方向增长，每次 PUSH 使 SP 减小</li>
+</ul>
 <p>对齐要求：</p>
 <ul>
 <li>内部调用：字对齐（4 字节）</li>
